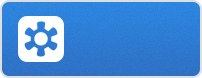
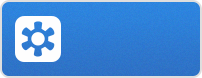
small adjustments to css

Changed region(s): [[0.0594, 0.2051, 0.3267, 0.7949]]

diff --git a/index.html b/index.html
@@ -162,8 +162,8 @@ Event fired: app.event.finish
             <small>Download</small>
             .tar.gz file
           </a>
-          <a href="architecture.html" class="button" style="background: transparent url(images/arch-button.png) 0 0 no-repeat;">
-            Architecture
+          <a href="architecture.html" class="button" style="background: transparent url(images/arch-button.png) 0 0 no-repeat; font-size: 18px; padding-left: 70px;">
+            Architecture diagram
           </a>
           <p class="repo-owner"><a href="https://github.com/andy1024/eledger-parser"></a> is maintained by <a href="https://github.com/andy1024">andy1024</a>.</p>
 
